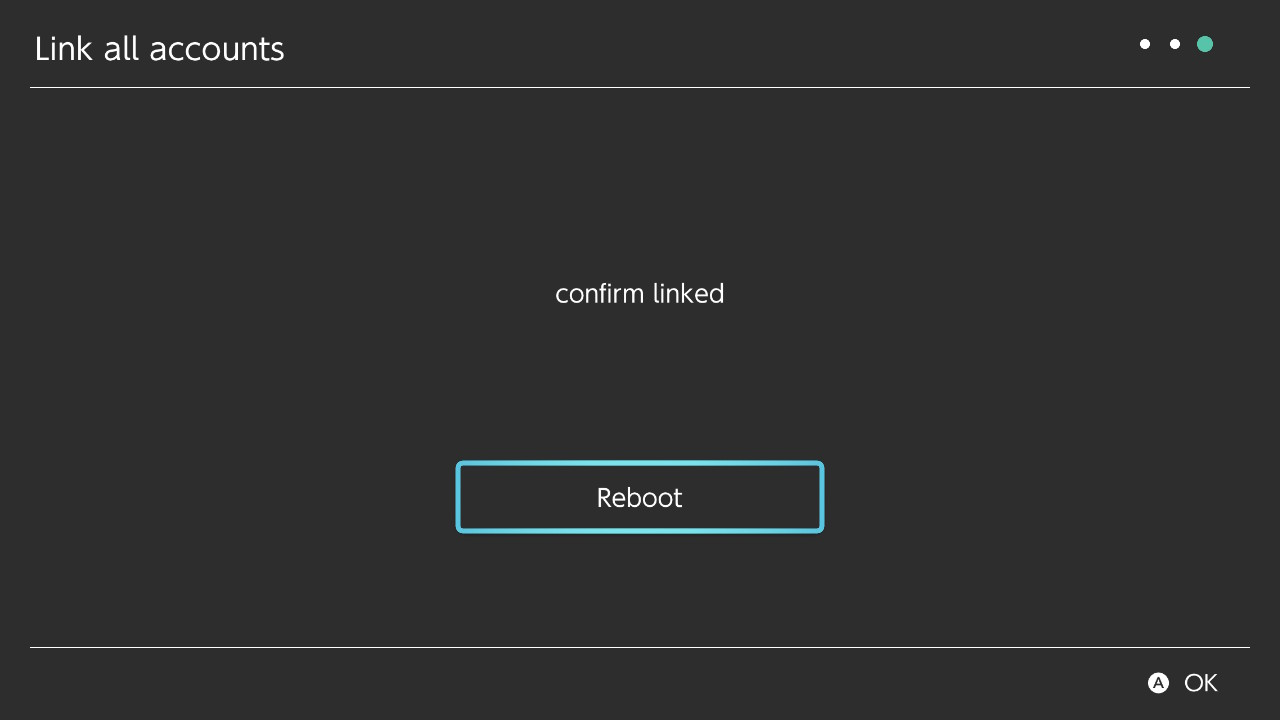
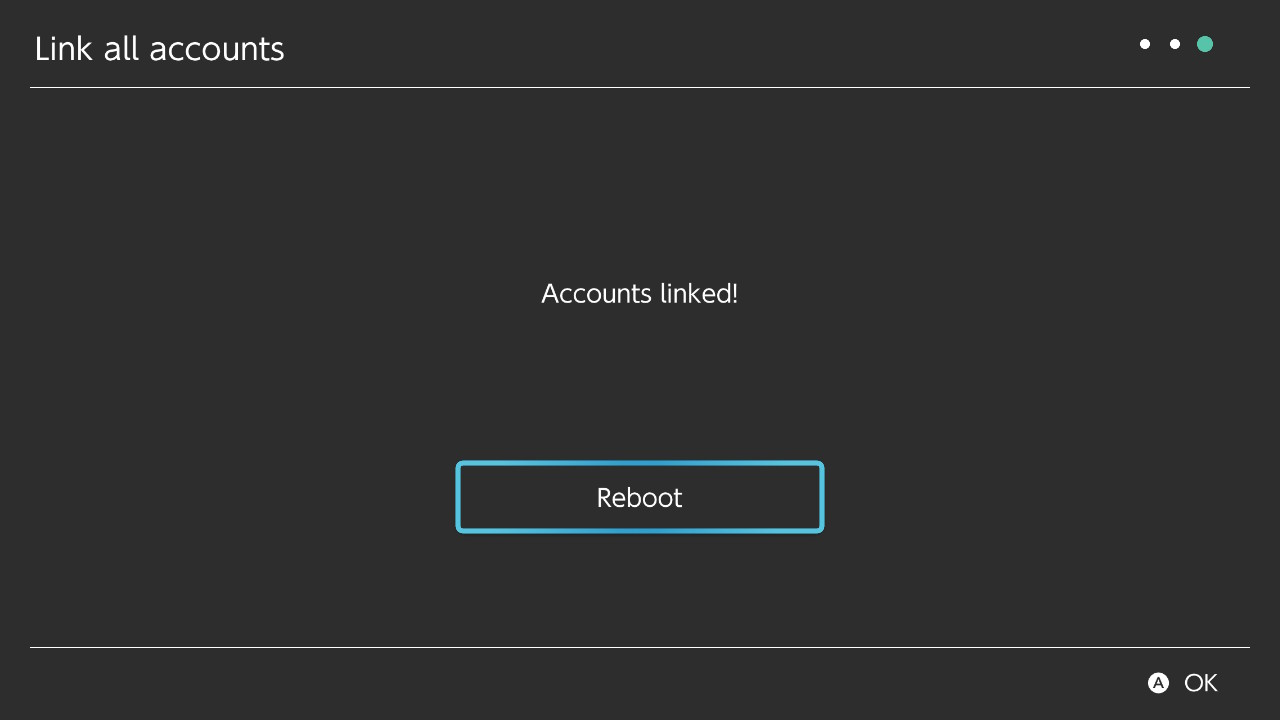
small debug leftovers

Changed region(s): [[0.4062, 0.7333, 0.5938, 0.7639], [0.4062, 0.6417, 0.5938, 0.6722], [0.4062, 0.3972, 0.5938, 0.4278]]

diff --git a/src/main.cpp b/src/main.cpp
@@ -45,7 +45,7 @@ int main(int argc, char* argv[])
             })
         );
         stagedFrame->addStage(
-            new ConfirmPage(stagedFrame, "confirm linked", true)
+            new ConfirmPage(stagedFrame, "Accounts linked!", true)
         );
 
         brls::Application::pushView(stagedFrame);
@@ -70,7 +70,7 @@ int main(int argc, char* argv[])
             })
         );
         stagedFrame->addStage(
-            new ConfirmPage(stagedFrame, "confirm unlinked", true)
+            new ConfirmPage(stagedFrame, "Accounts unlinked!", true)
         );
 
         brls::Application::pushView(stagedFrame);
